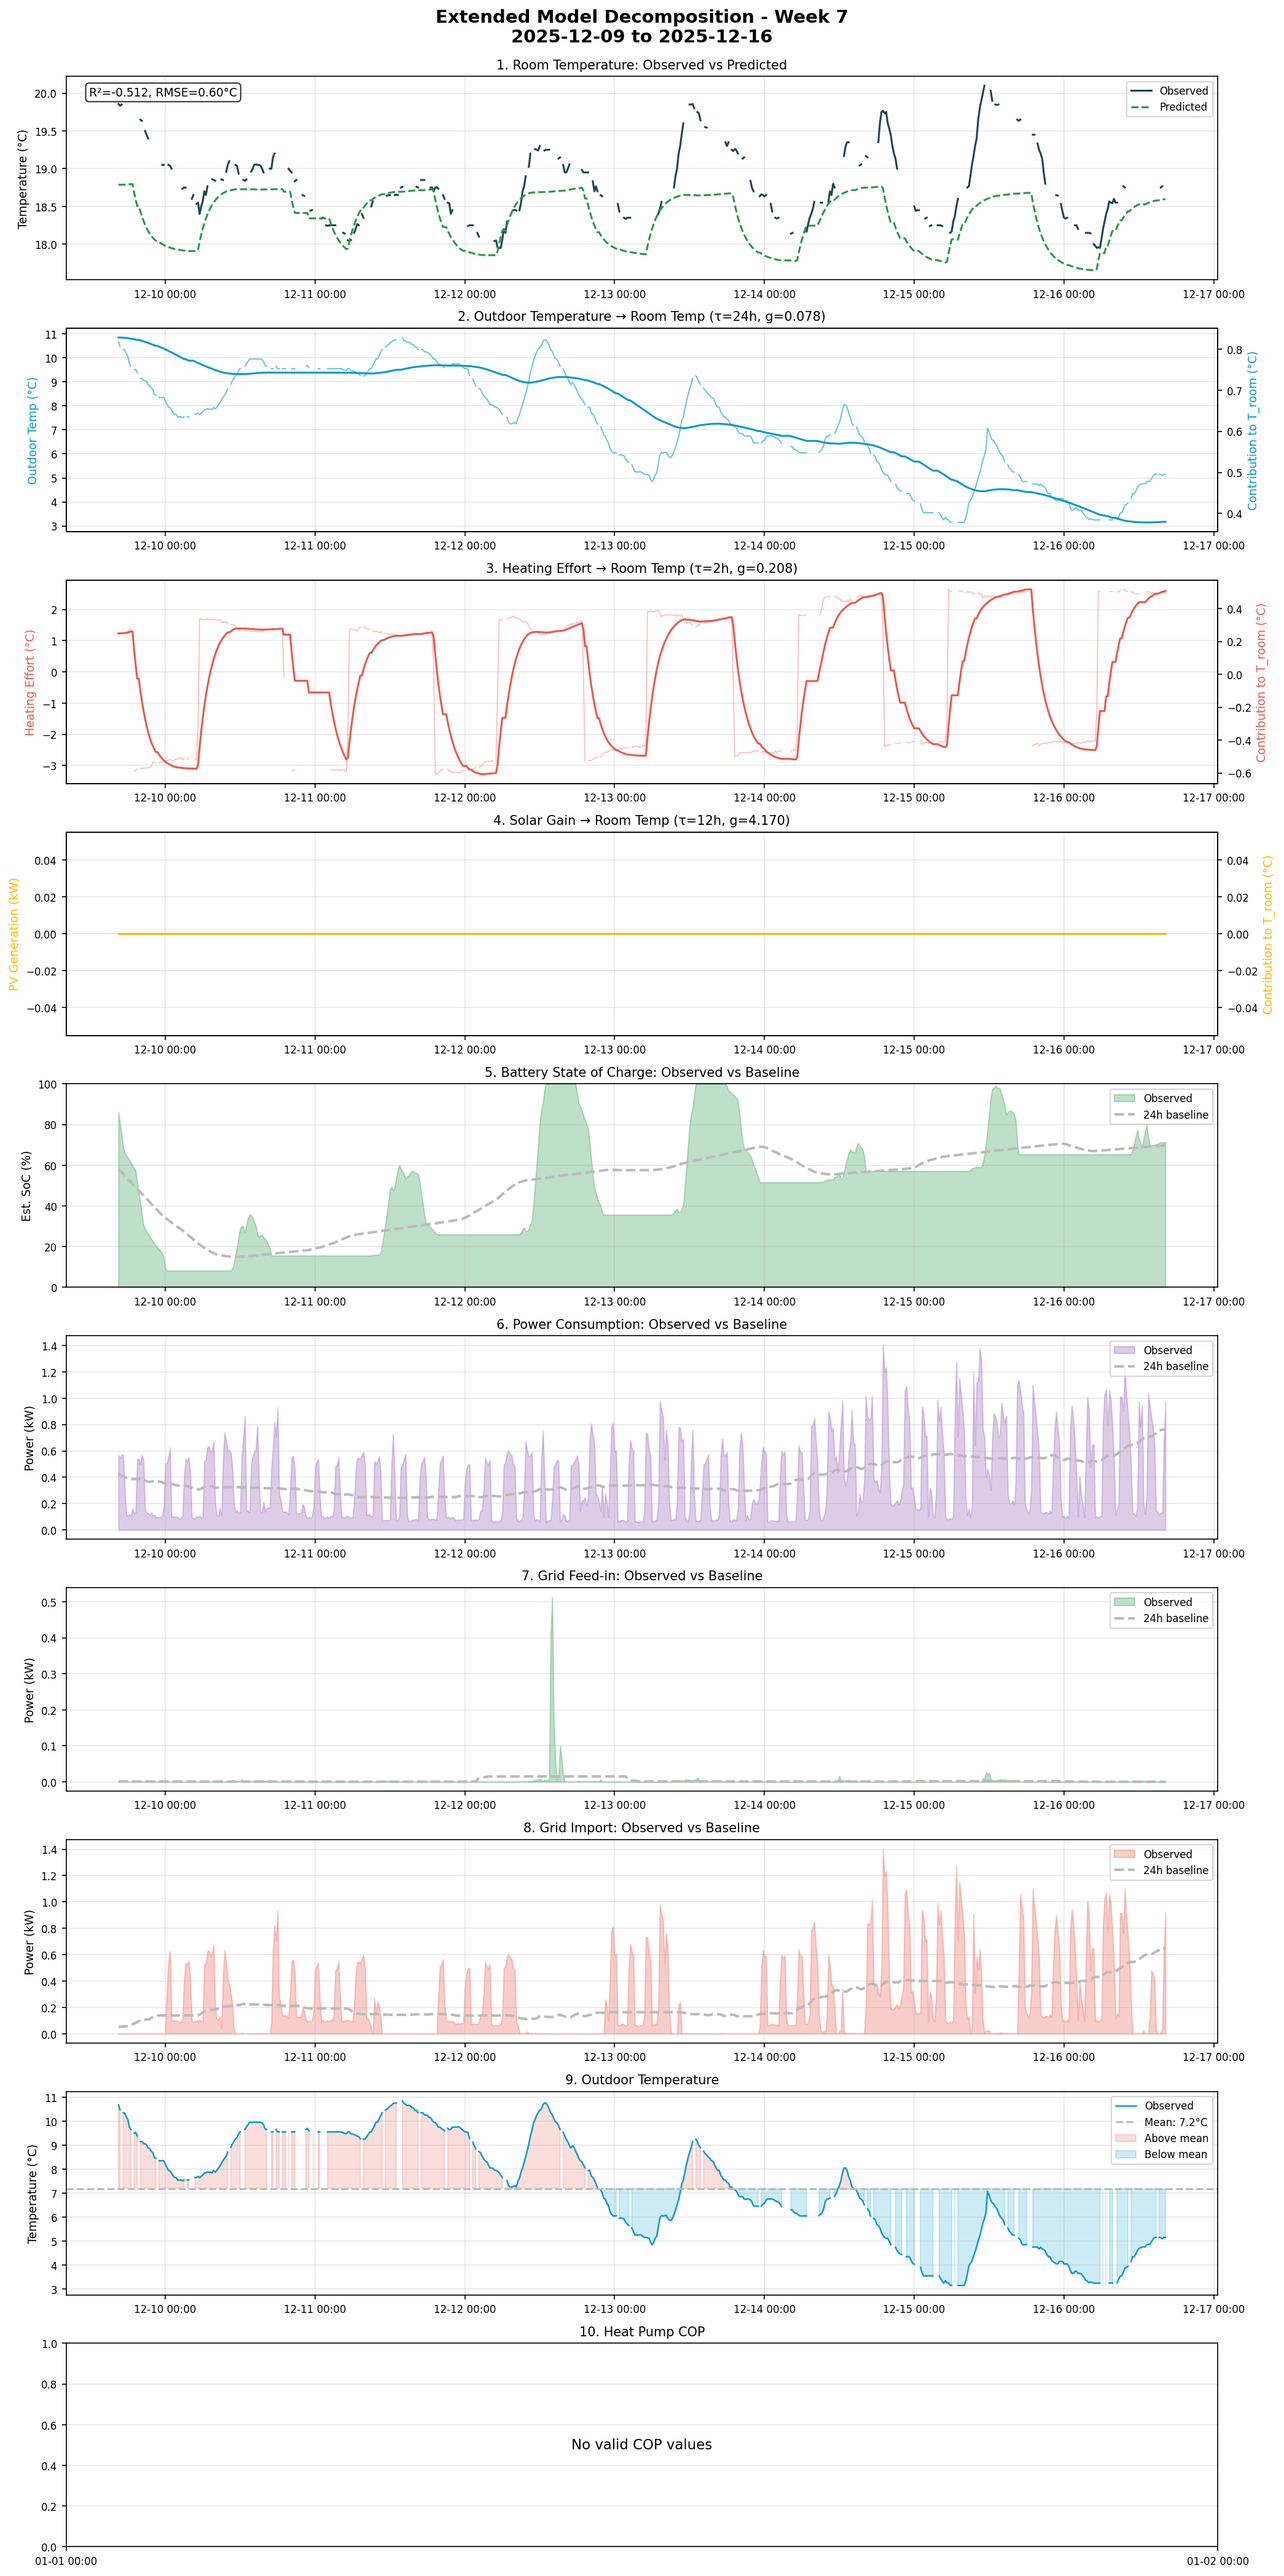
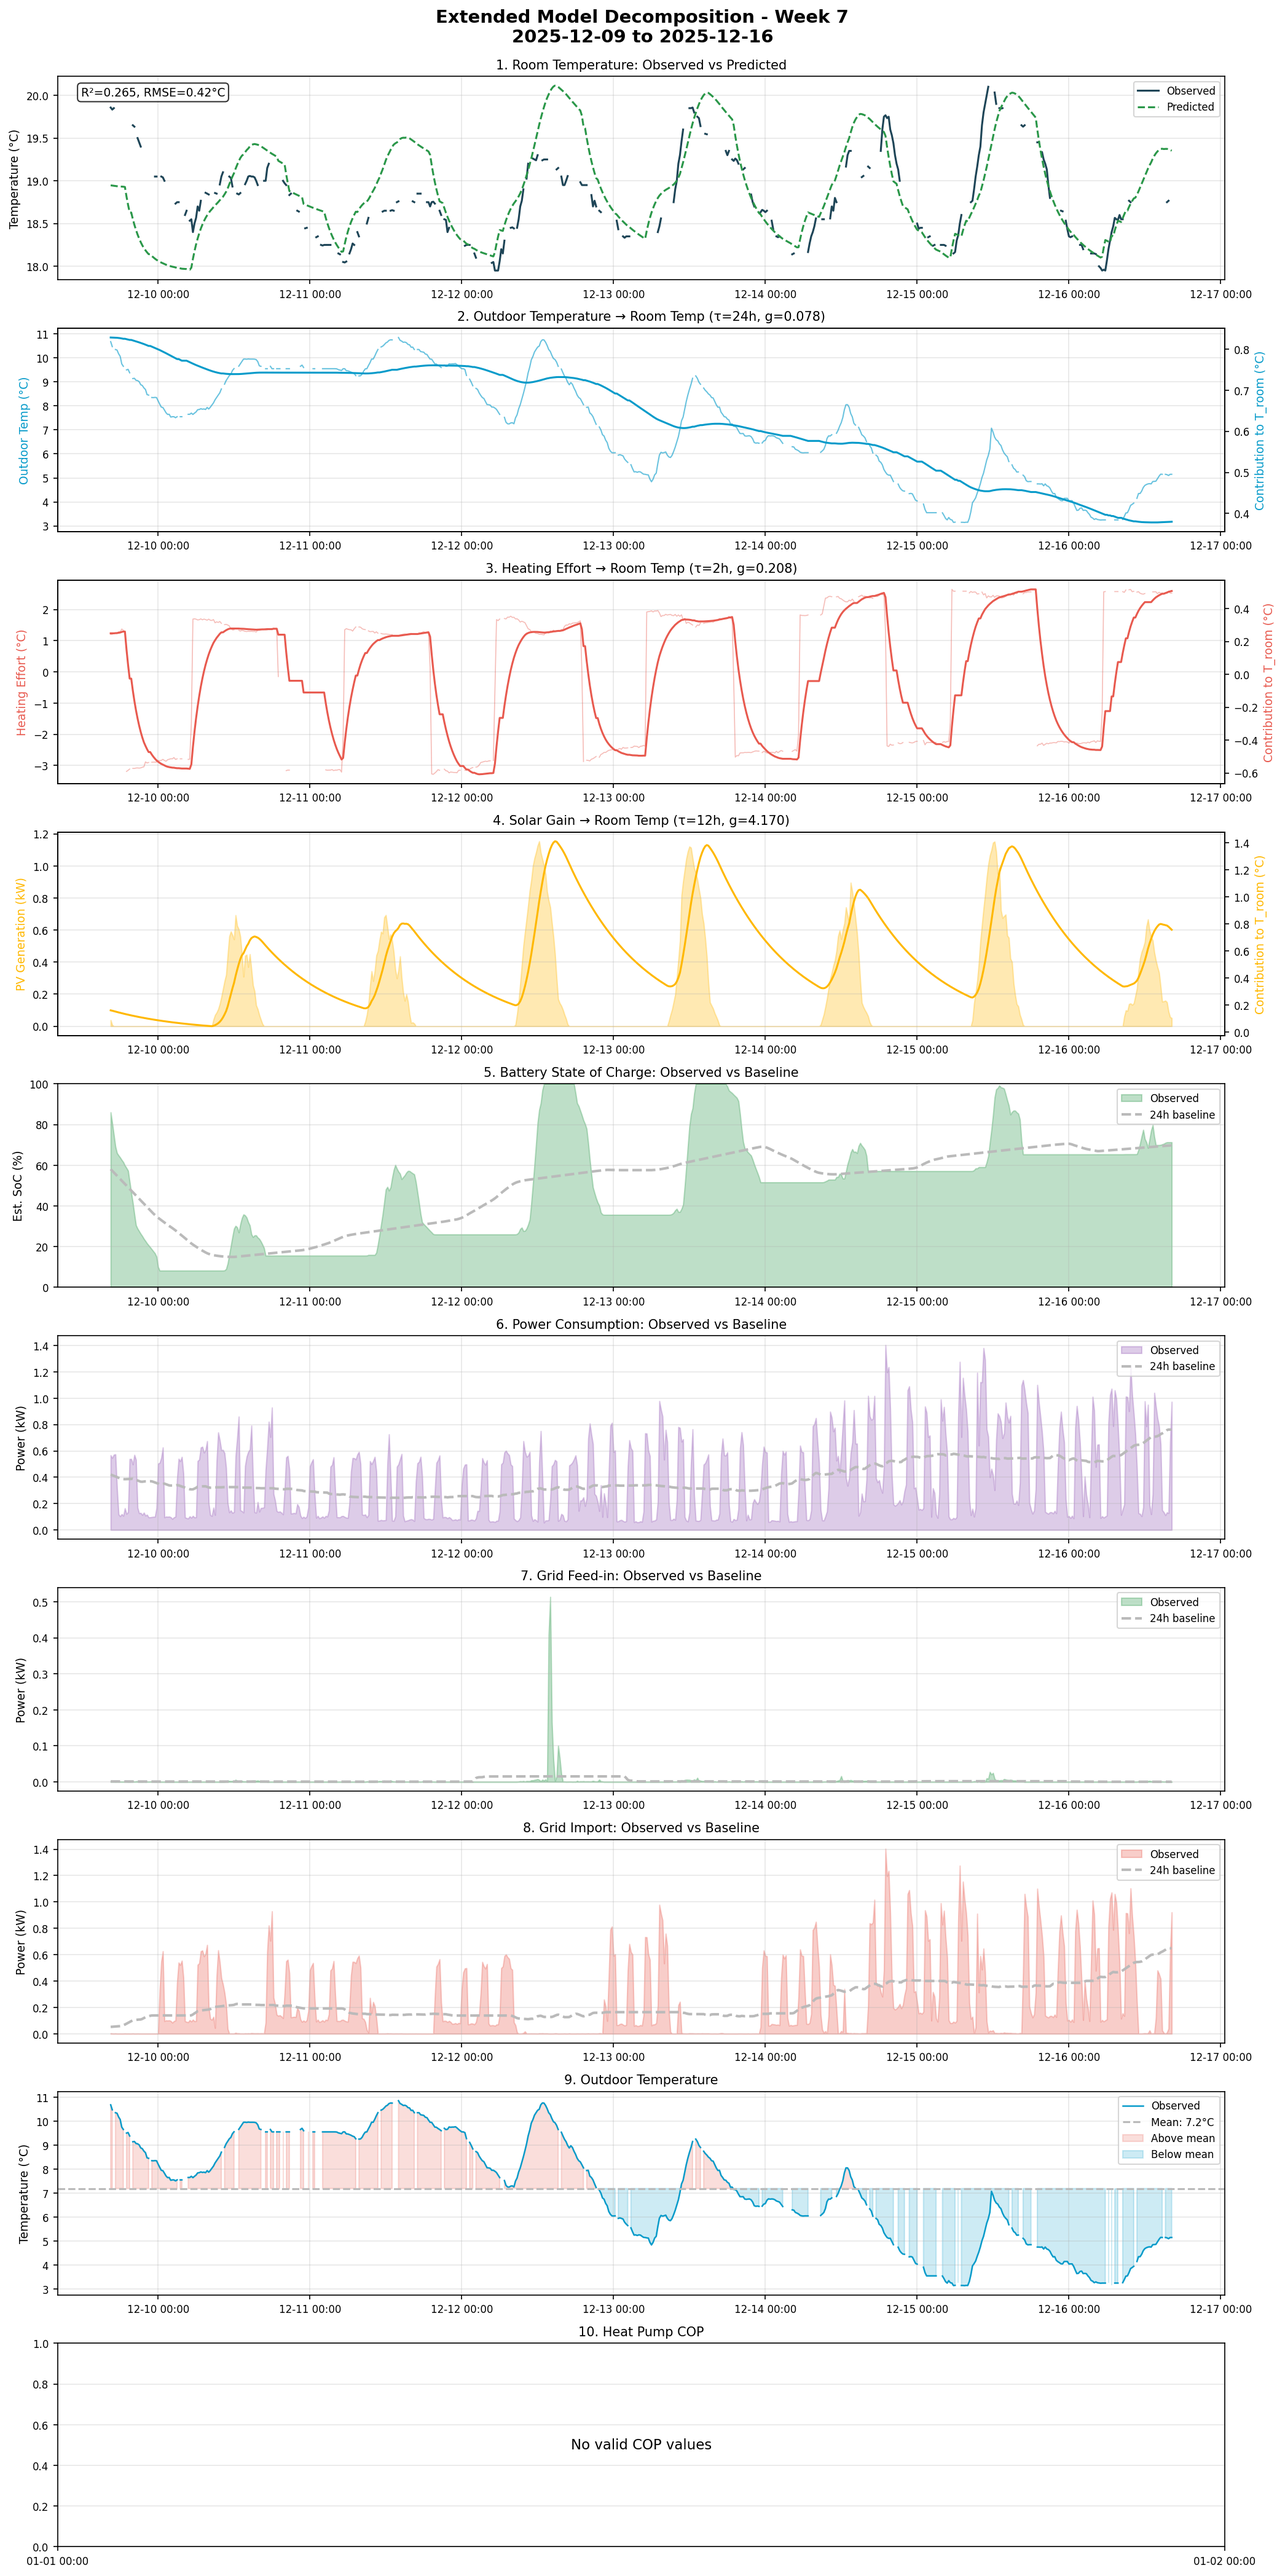
Fix PV column name in extended decomposition
Changed pv_power_generation → pv_generation_kwh to match actual column name
in integrated dataset. Panel 4 now correctly shows daily solar generation
patterns.

🤖 Generated with [Claude Code](https://claude.com/claude-code)

diff --git a/src/phase3/06_extended_decomposition.py b/src/phase3/06_extended_decomposition.py
@@ -152,8 +152,8 @@ def compute_model_terms(df, params, hc_params):
     t_hk2_expected = hc_params.get('intercept', 39.9) + hc_params.get('slope', -0.869) * t_out
     effort = t_hk2 - t_hk2_expected
 
-    # Get PV generation
-    pv = df['pv_power_generation'].values if 'pv_power_generation' in df.columns else np.zeros(len(df))
+    # Get PV generation (column name is pv_generation_kwh)
+    pv = df['pv_generation_kwh'].values if 'pv_generation_kwh' in df.columns else np.zeros(len(df))
 
     # Apply low-pass filters
     lpf_out = apply_lpf(t_out, params['tau_out'])
